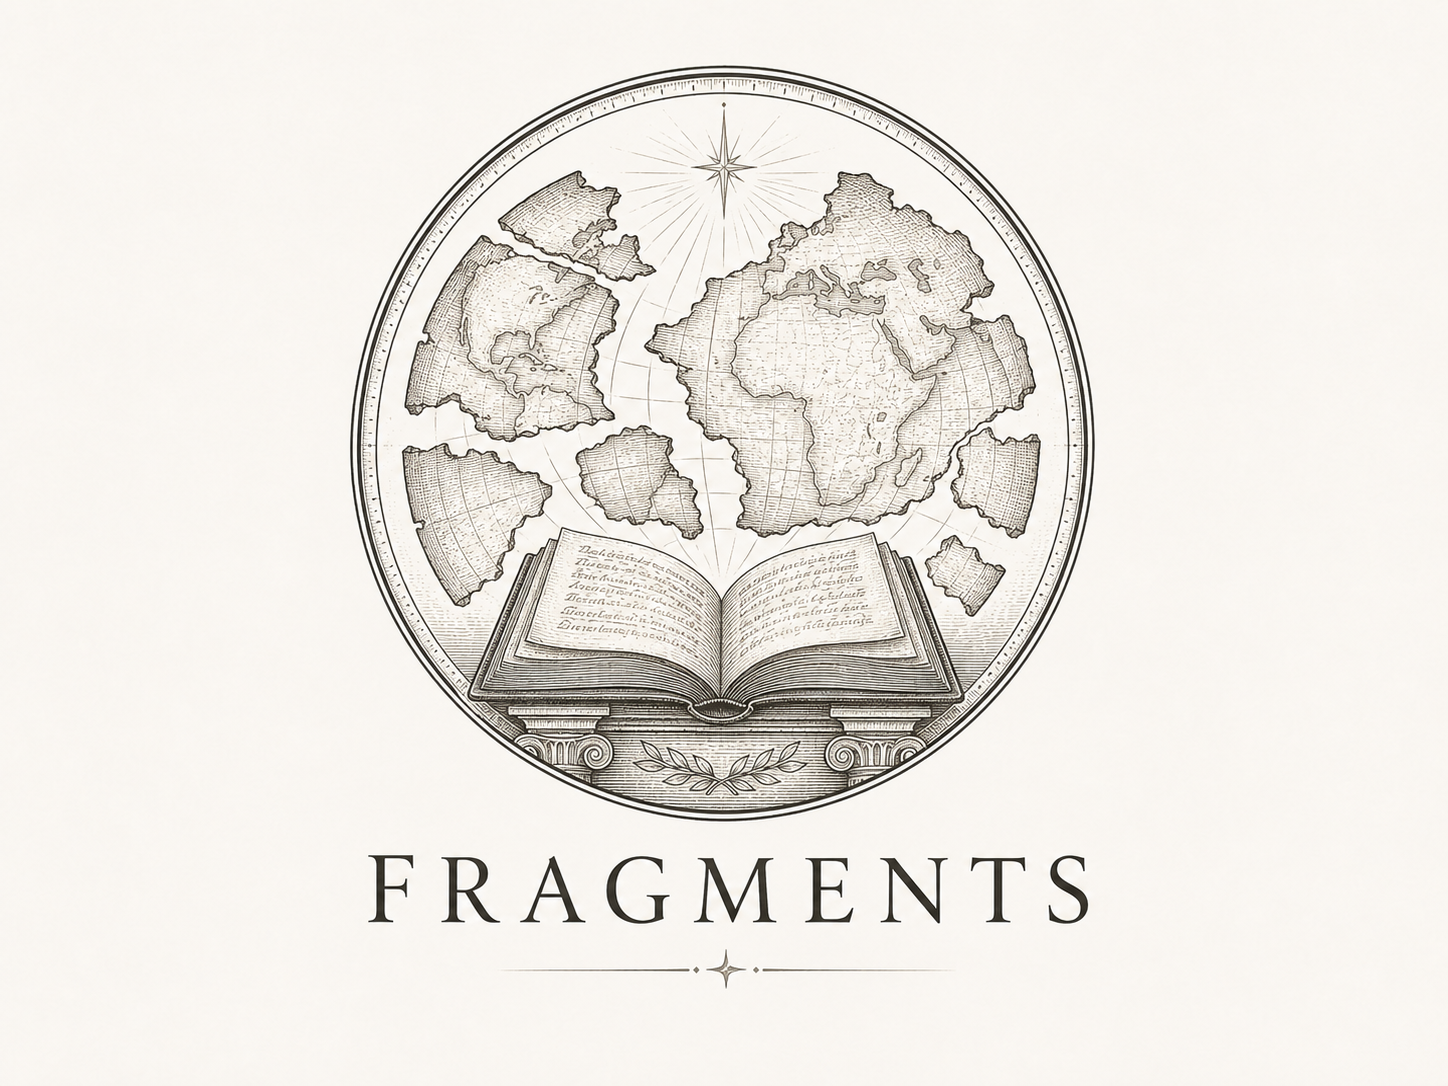
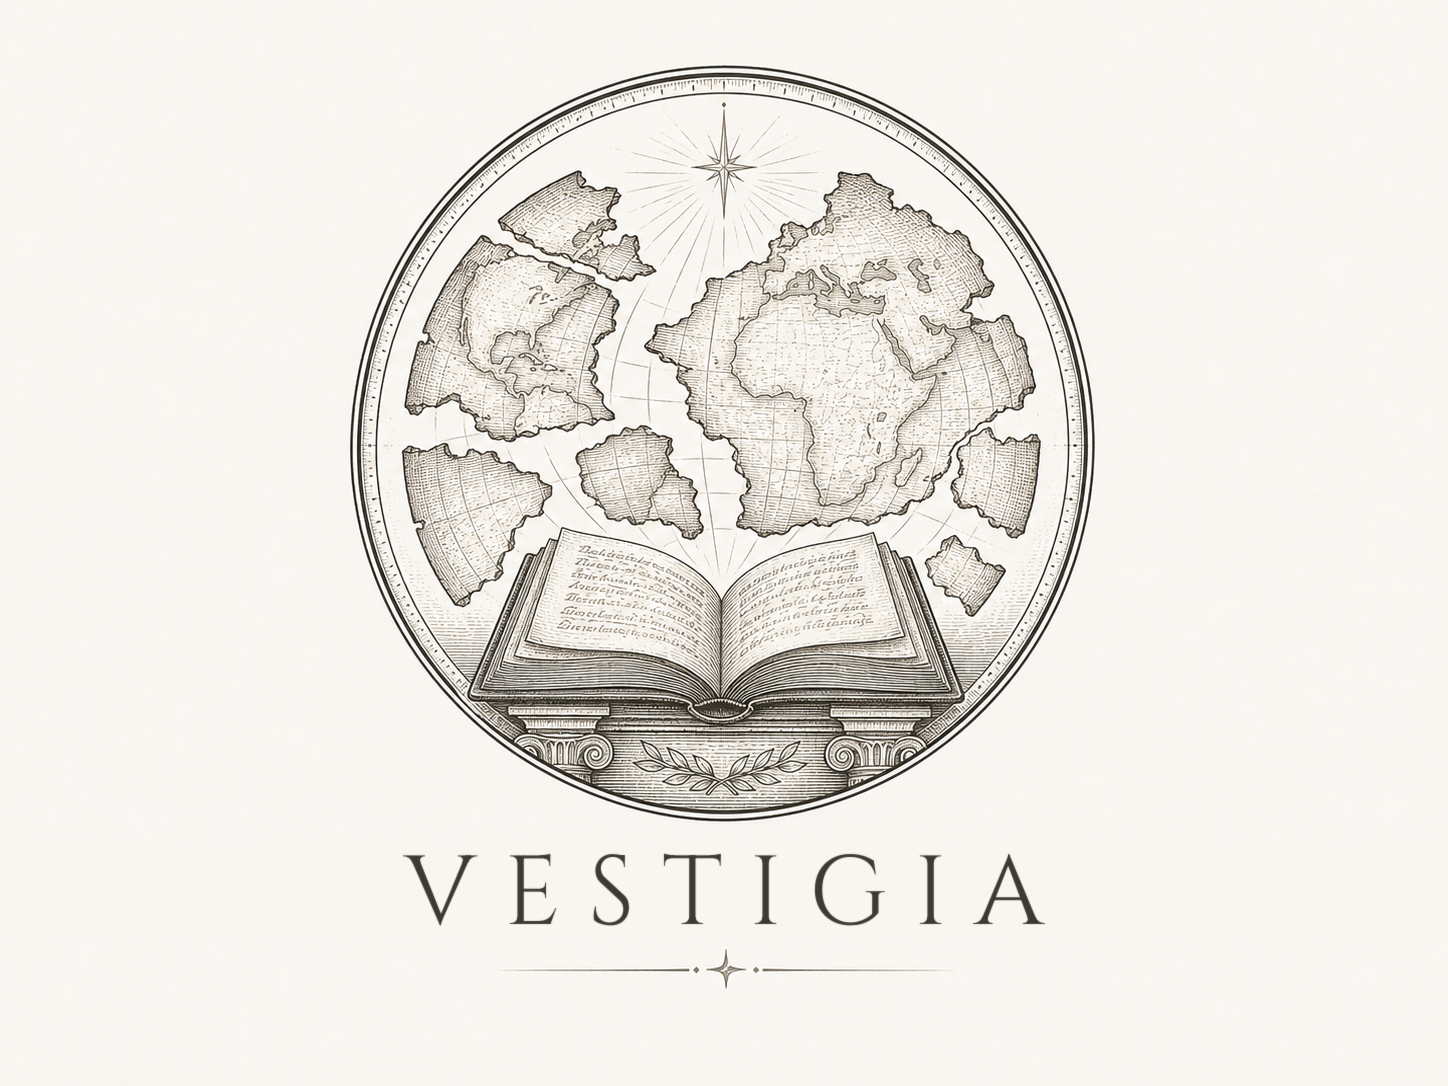
Le sceau gravé lit « VESTIGIA »
Le mot « FRAGMENTS » sous le médaillon est remplacé dans l'image même (Cinzel régulier,
même hauteur de capitale, même interlettrage, teinte grise moyenne de la gravure d'origine,
ornement conservé). `Pastille` reprend donc le chemin uniforme `/sceaux/<module>.png`.

Changed region(s): [[0.2486, 0.7901, 0.5283, 0.8508], [0.5594, 0.7901, 0.7769, 0.8508]]

diff --git a/components/Pastille.tsx b/components/Pastille.tsx
@@ -53,10 +53,7 @@ export default function Pastille({ module, size = 48, className }: Props) {
       }}
     >
       <Image
-        // 03/09 — le module s'appelle VESTIGIA à l'écran ; le sceau gravé lit encore
-        // « FRAGMENTS », donc ce module seul prend le médaillon recadré (sans mot),
-        // en attendant un sceau à son nouveau nom.
-        src={module === 'fragments' ? '/sceaux/pastille-fragments.png' : `/sceaux/${module}.png`}
+        src={`/sceaux/${module}.png`}
         alt=""
         width={inner}
         height={inner}
